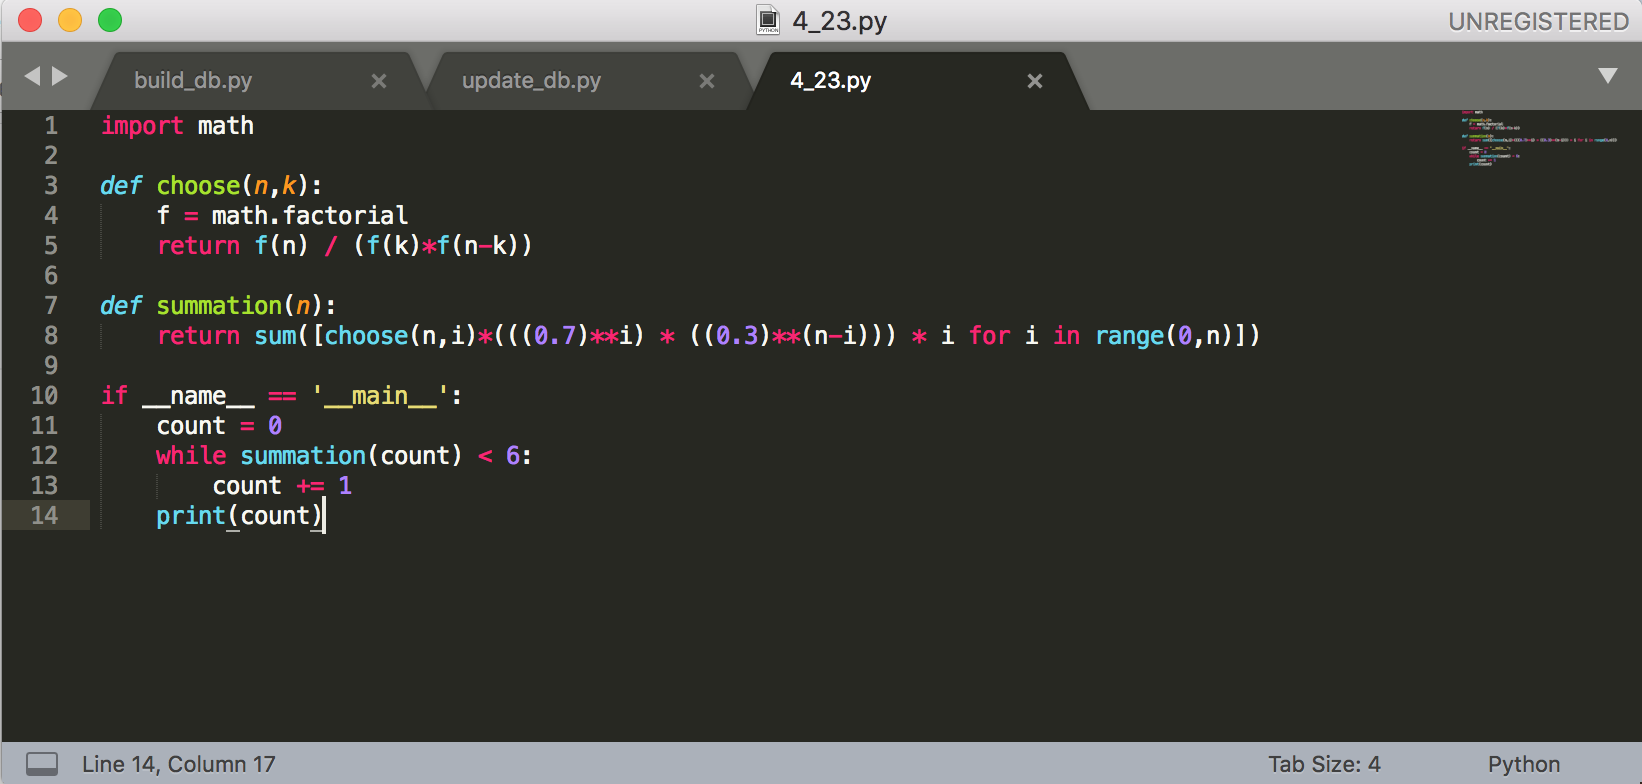
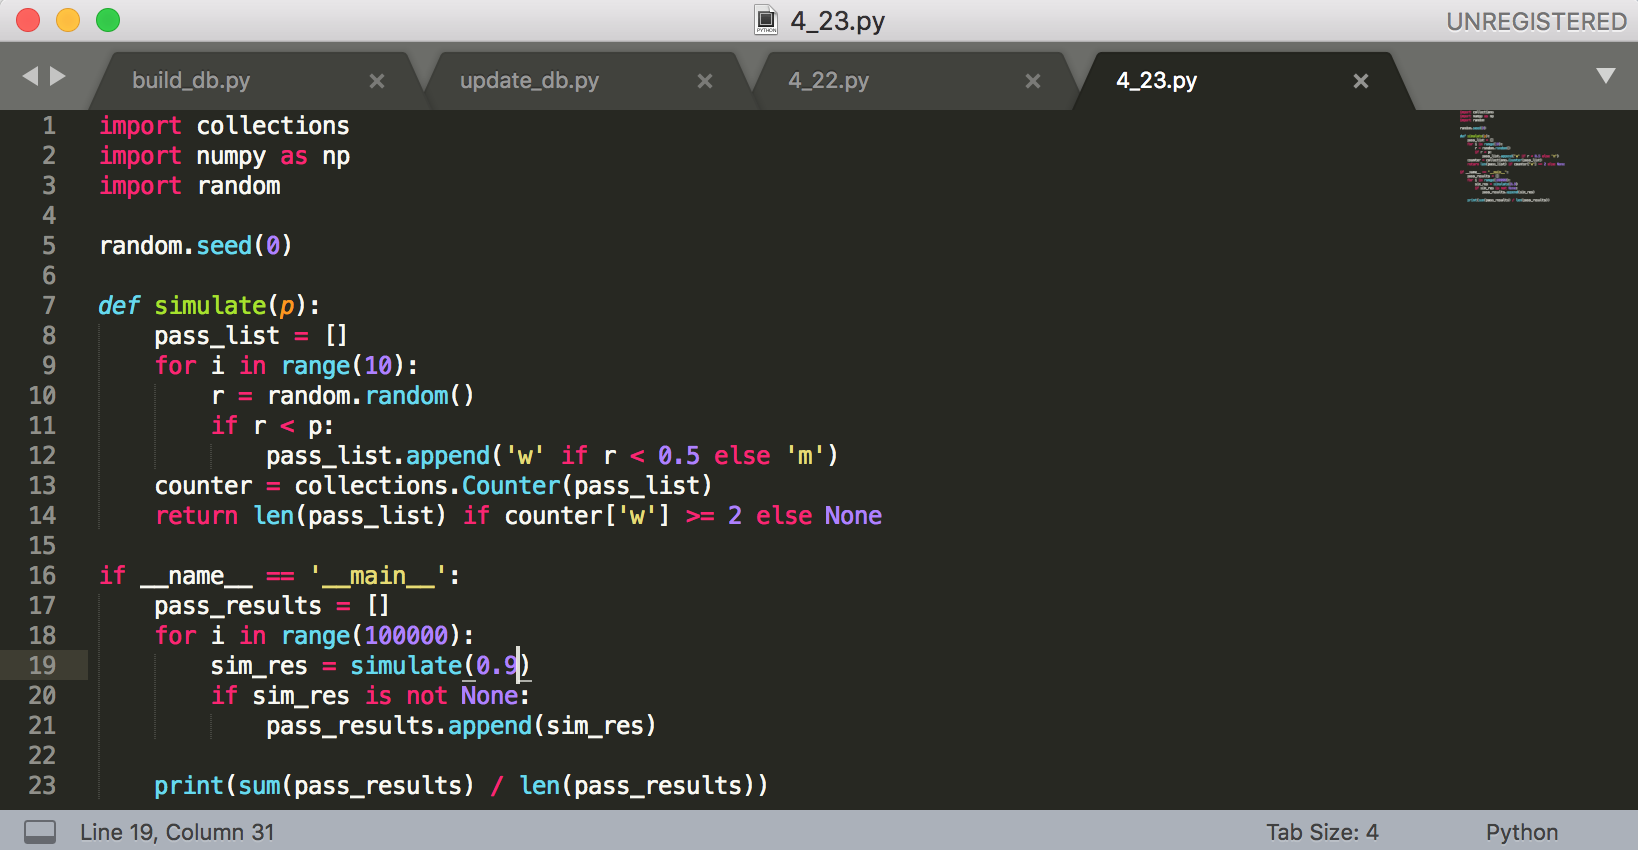
programming images added

Changed region(s): [[0.0, 0.0, 1.0, 1.0], [0.5916, 0.398, 0.7784, 0.4592]]

diff --git a/ps4/4_23.py b/ps4/4_23.py
@@ -1,14 +1,23 @@
-import math
+import collections
+import numpy as np
+import random
 
-def choose(n,k):
-	f = math.factorial
-	return f(n) / (f(k)*f(n-k))
+random.seed(0)
 
-def summation(n):
-	return sum([choose(n,i)*(((0.7)**i) * ((0.3)**(n-i))) * i for i in range(0,n)])
+def simulate(p):
+	pass_list = []
+	for i in range(10):
+		r = random.random()
+		if r < p:
+			pass_list.append('w' if r < 0.5 else 'm')
+	counter = collections.Counter(pass_list)
+	return len(pass_list) if counter['w'] >= 2 else None
 
 if __name__ == '__main__':
-	count = 0
-	while summation(count) < 6:
-		count += 1
-	print(count)
+	pass_results = []
+	for i in range(100000):
+		sim_res = simulate(0.9)
+		if sim_res is not None:
+			pass_results.append(sim_res)
+
+	print(sum(pass_results) / len(pass_results))

diff --git a/ps4/4_22.py b/ps4/4_22.py
@@ -1,0 +1,14 @@
+import math
+
+def choose(n,k):
+	f = math.factorial
+	return f(n) / (f(k)*f(n-k))
+
+def summation(n):
+	return sum([choose(n,i)*(((0.7)**i) * ((0.3)**(n-i))) * i for i in range(0,n)])
+
+if __name__ == '__main__':
+	count = 0
+	while summation(count) < 6:
+		count += 1
+	print(count)
